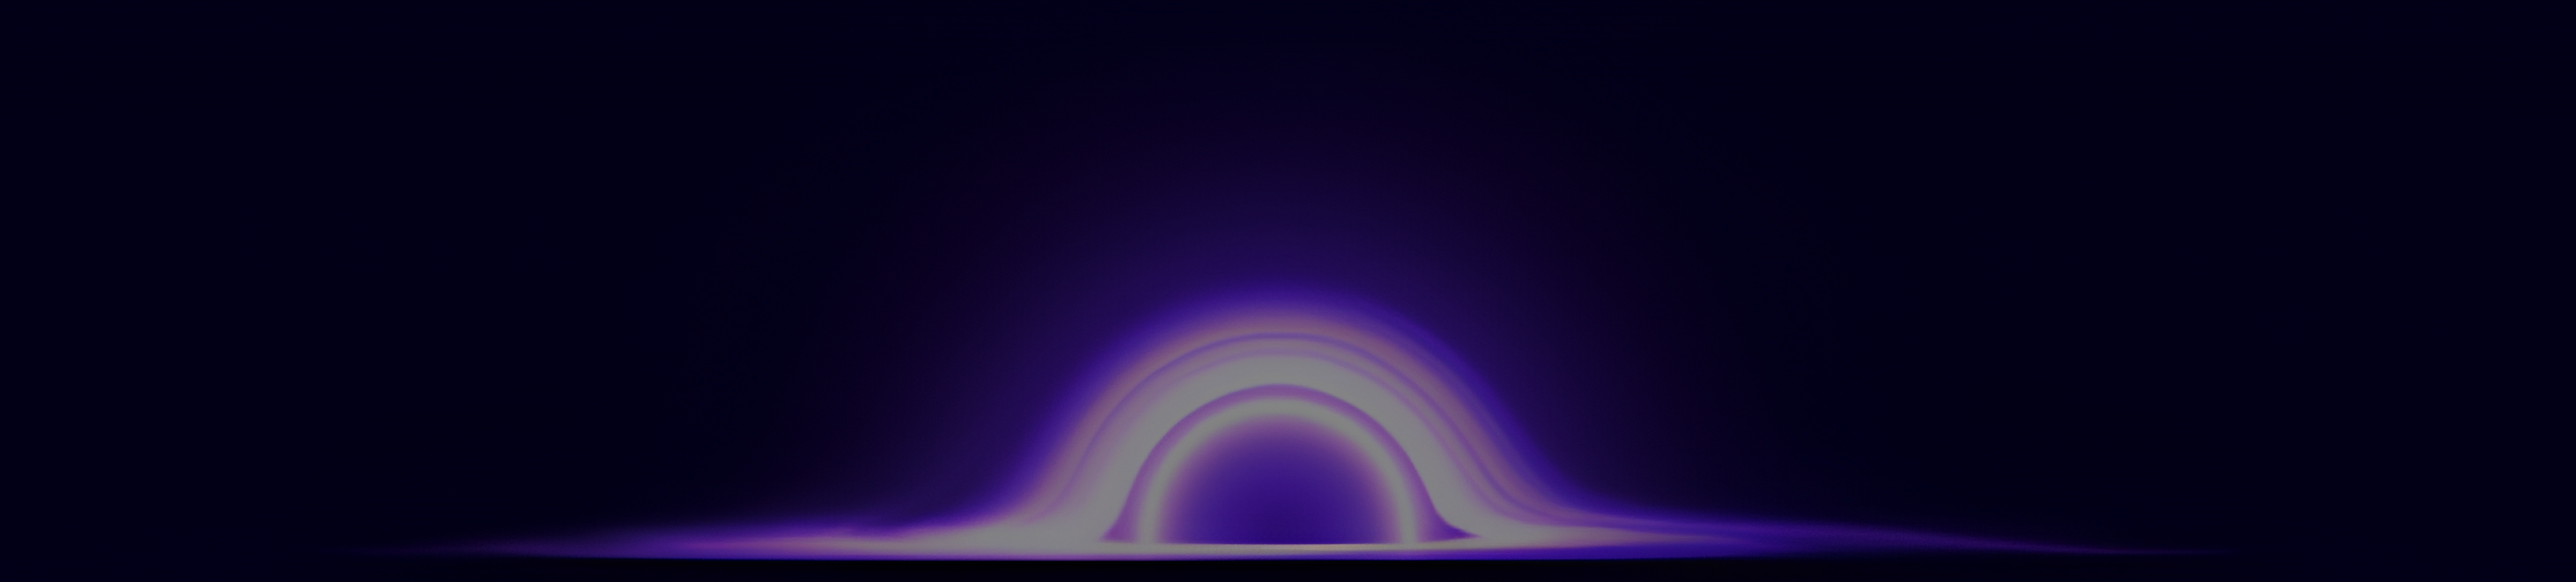
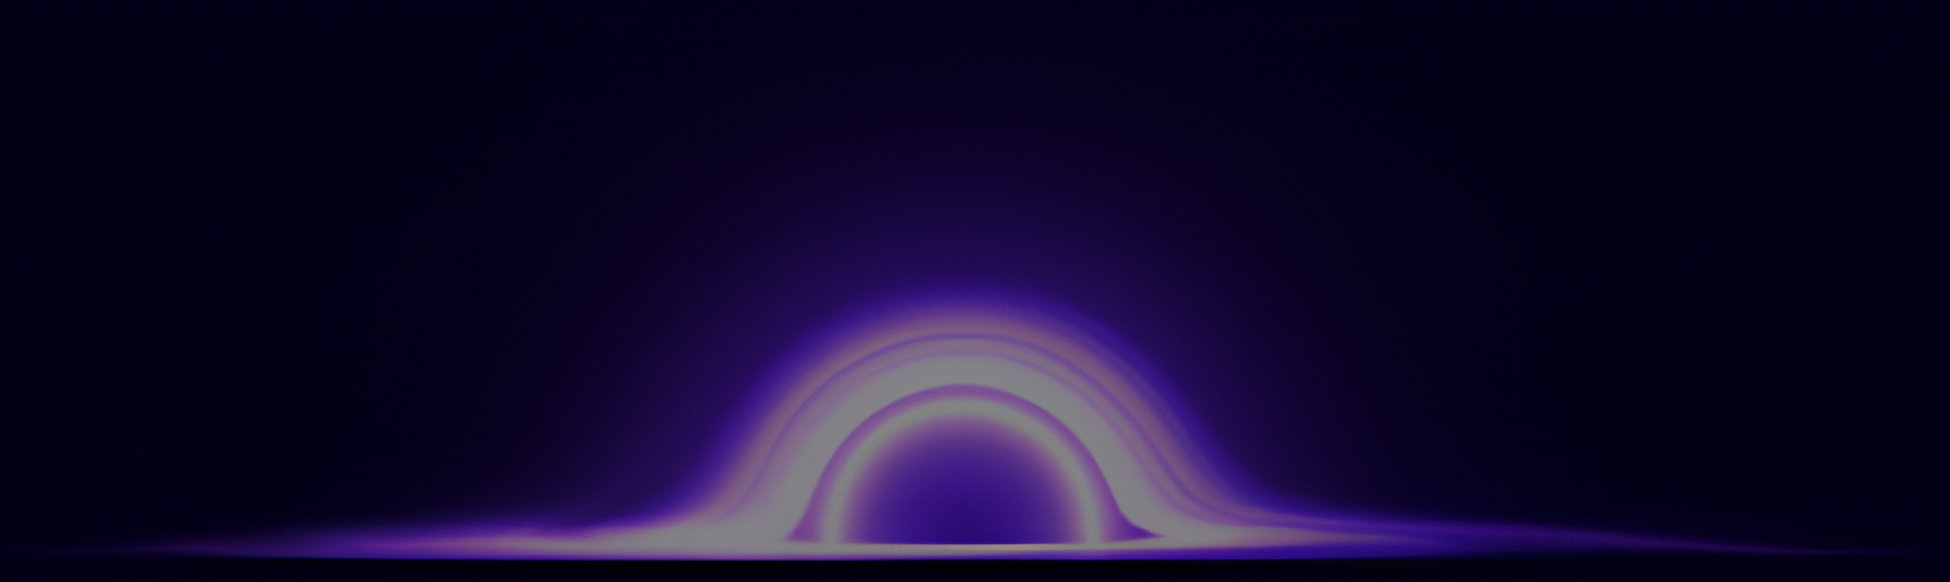
mobile optimalised

Changed region(s): [[0.0625, 0.5119, 0.9371, 0.9635]]

diff --git a/NaucSeTelesa/src/pages/TailwindTest.jsx b/NaucSeTelesa/src/pages/TailwindTest.jsx
@@ -1,3 +1,4 @@
+import Spline from "@splinetool/react-spline";
 import "../App.css";
 import Navbar from "../Components/Navbar";
 
@@ -37,6 +38,24 @@ function TailwindTest() {
             <div className="features2 rounded-3xl h-56 w-56 shadow-lg"></div>
             <div className="features1 rounded-3xl h-56 w-56 shadow-lg"></div>
           </div>
+        </div>
+        <div className="w-full flex justify-center items-center flex-col mt-52 text-center">
+          <h1 className="text-4xl font-bold m-5">ABOUT</h1>
+          <p className="text-xl  text-gray-800">
+            Je-li MUTEX volný proces se stává držitelem MUTEXU
+          </p>
+          <p className="text-xl text-gray-400 m-5 ">
+            Pokud by se pro starý účel použil smysluplný text, bylo by těžké
+            hodnotit pouze umění, aniž by se posuzoval možná smysl té části
+            obsahu. Pokud by se pro starý účel použil smysluplný text, bylo by
+            těžké hodnotit pouze umění, aniž by se posuzoval možná smysl té
+            části obsahu.
+          </p>
+          <img src="/splineImg.png" />
+        </div>
+
+        <div className="h-screen w-full mt-48">
+          <img src="/galaxy.png"></img>
         </div>
       </div>
     </>

diff --git a/NaucSeTelesa/vite.config.js b/NaucSeTelesa/vite.config.js
@@ -4,4 +4,7 @@ import react from "@vitejs/plugin-react";
 // https://vitejs.dev/config/
 export default defineConfig({
   plugins: [react()],
+  server: {
+    host: "0.0.0.0",
+  },
 });
